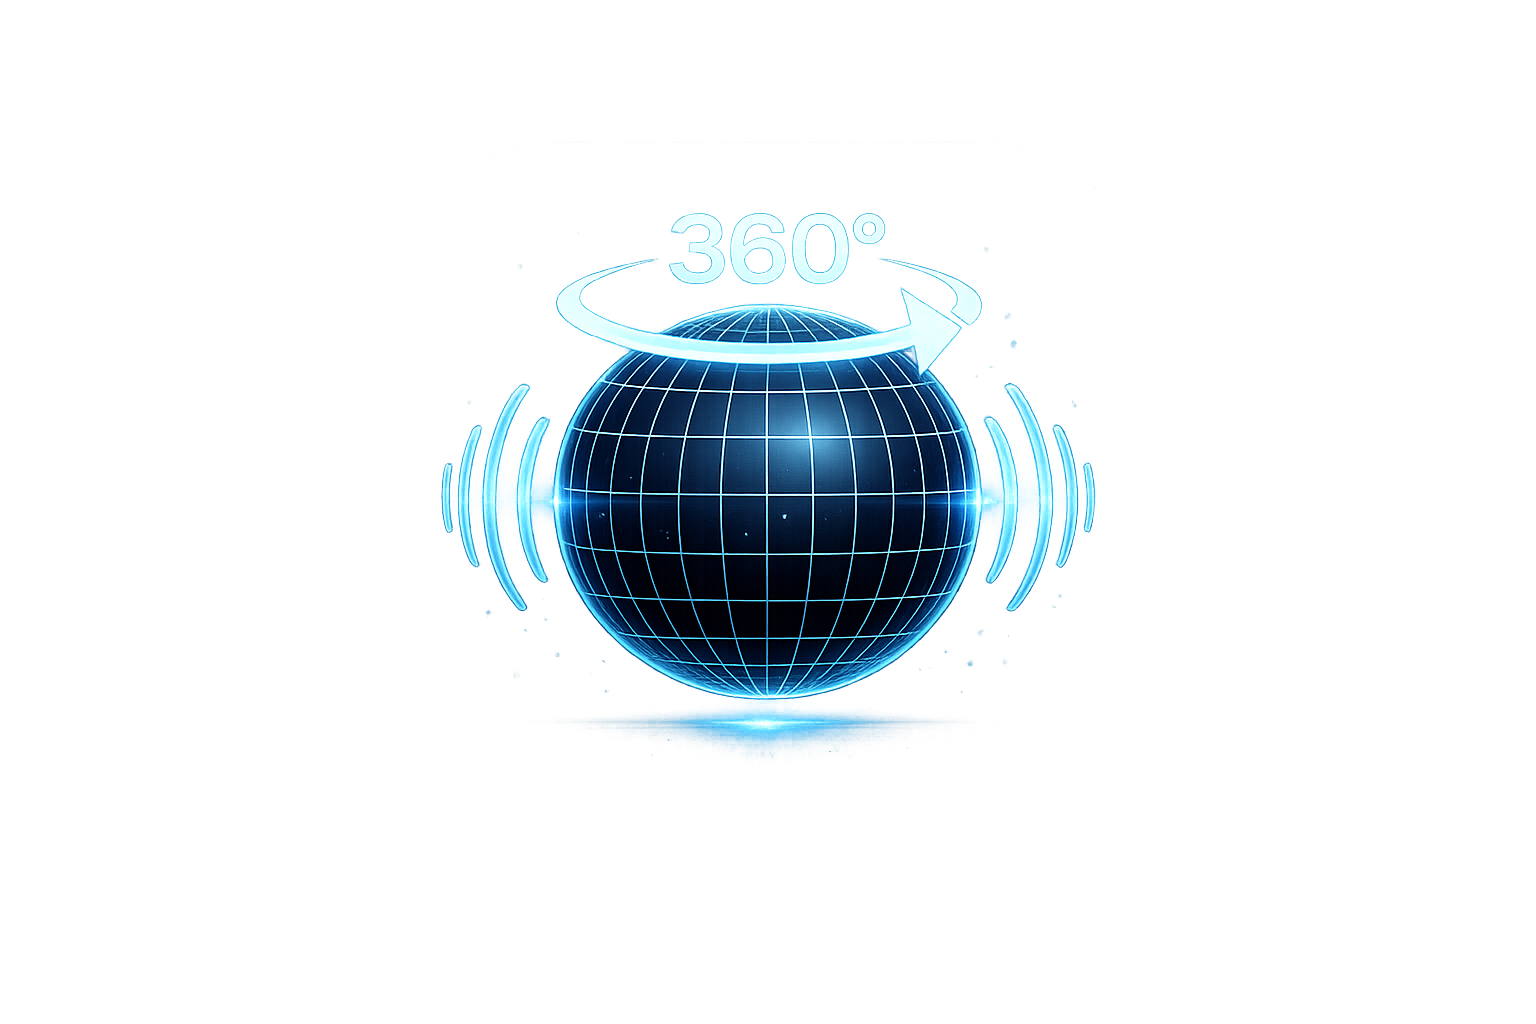
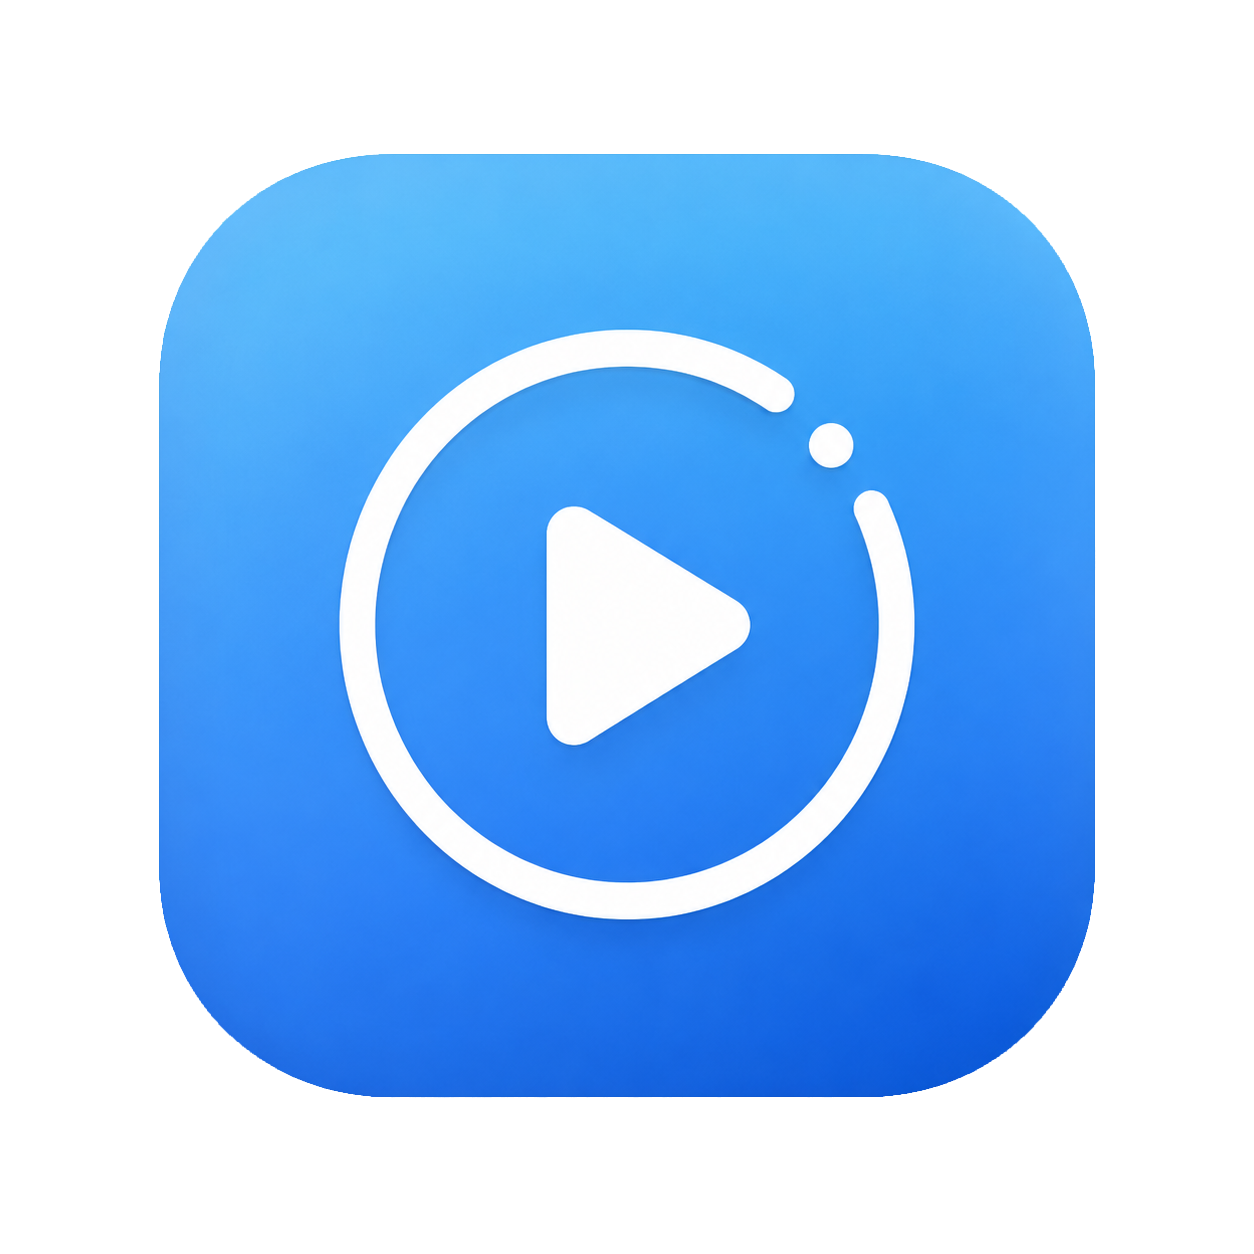
feat: add video thumbnails

diff --git a/Sources/360AudioExporter/Views/VideoThumbnailView.swift b/Sources/360AudioExporter/Views/VideoThumbnailView.swift
@@ -1,0 +1,136 @@
+import AppKit
+import CryptoKit
+import SwiftUI
+
+struct VideoThumbnailView<Placeholder: View>: View {
+    let asset: MediaAsset?
+    let ffmpegPath: String
+    let height: CGFloat
+    let cornerRadius: CGFloat
+    @ViewBuilder let placeholder: () -> Placeholder
+
+    @State private var image: NSImage?
+    @State private var isLoading = false
+
+    var body: some View {
+        ZStack {
+            if let image {
+                Image(nsImage: image)
+                    .resizable()
+                    .scaledToFill()
+                    .frame(maxWidth: .infinity)
+                    .frame(height: height)
+                    .clipped()
+            } else {
+                placeholder()
+                    .frame(maxWidth: .infinity)
+                    .frame(height: height)
+            }
+
+            if isLoading {
+                ProgressView()
+                    .controlSize(.small)
+                    .tint(.white)
+                    .padding(8)
+                    .background(Color.black.opacity(0.55))
+                    .clipShape(Circle())
+            }
+        }
+        .frame(height: height)
+        .clipShape(RoundedRectangle(cornerRadius: cornerRadius))
+        .task(id: asset?.url) {
+            await loadThumbnail()
+        }
+    }
+
+    @MainActor
+    private func loadThumbnail() async {
+        image = nil
+        guard let asset, asset.fileType != .audio else { return }
+
+        isLoading = true
+        defer { isLoading = false }
+
+        let thumbnailURL = await Task.detached(priority: .utility) {
+            ThumbnailGenerator.generate(for: asset, ffmpegPath: ffmpegPath)
+        }.value
+        image = thumbnailURL.flatMap { NSImage(contentsOf: $0) }
+    }
+}
+
+private enum ThumbnailGenerator {
+    static func generate(for asset: MediaAsset, ffmpegPath: String) -> URL? {
+        guard FileManager.default.fileExists(atPath: ffmpegPath) else { return nil }
+
+        let cacheURL = thumbnailCacheURL(for: asset.url)
+        if FileManager.default.fileExists(atPath: cacheURL.path) {
+            return cacheURL
+        }
+
+        let seekTime = thumbnailSeekTime(for: asset)
+        let process = Process()
+        process.executableURL = URL(fileURLWithPath: ffmpegPath)
+        process.arguments = [
+            "-hide_banner",
+            "-loglevel", "error",
+            "-ss", seekTime,
+            "-i", asset.url.path,
+            "-frames:v", "1",
+            "-vf", "scale=640:-1",
+            "-y",
+            cacheURL.path
+        ]
+
+        let pipe = Pipe()
+        process.standardError = pipe
+        process.standardOutput = Pipe()
+
+        do {
+            try process.run()
+            process.waitUntilExit()
+            guard process.terminationStatus == 0 else {
+                let data = pipe.fileHandleForReading.readDataToEndOfFile()
+                let message = String(data: data, encoding: .utf8) ?? "Unknown ffmpeg thumbnail error"
+                Logger.info("Thumbnail generation failed for \(asset.url.path): \(message)")
+                return nil
+            }
+            return cacheURL
+        } catch {
+            Logger.info("Thumbnail generation failed for \(asset.url.path): \(error.localizedDescription)")
+            return nil
+        }
+    }
+
+    private static func thumbnailSeekTime(for asset: MediaAsset) -> String {
+        guard let duration = asset.probe?.duration, duration > 1 else { return "0.1" }
+        return String(format: "%.2f", min(max(duration * 0.1, 0.5), 10.0))
+    }
+
+    private static func thumbnailCacheURL(for url: URL) -> URL {
+        let keySource = "\(url.path)|\(fileModificationStamp(for: url))"
+        let digest = SHA256.hash(data: Data(keySource.utf8))
+            .map { String(format: "%02x", $0) }
+            .joined()
+        return FileManager.default.temporaryDirectory
+            .appendingPathComponent("360AudioExporter-thumbnails", isDirectory: true)
+            .ensuringDirectoryExists()
+            .appendingPathComponent("\(digest).jpg")
+    }
+
+    private static func fileModificationStamp(for url: URL) -> String {
+        guard
+            let attrs = try? FileManager.default.attributesOfItem(atPath: url.path),
+            let date = attrs[.modificationDate] as? Date
+        else {
+            return "unknown"
+        }
+        return "\(date.timeIntervalSince1970)"
+    }
+}
+
+private extension URL {
+    func ensuringDirectoryExists() -> URL {
+        try? FileManager.default.createDirectory(at: self, withIntermediateDirectories: true)
+        return self
+    }
+}

diff --git a/Sources/360AudioExporter/Views/OutputPreviewCardView.swift b/Sources/360AudioExporter/Views/OutputPreviewCardView.swift
@@ -10,61 +10,16 @@ struct OutputPreviewCardView: View {
                 .fontWeight(.semibold)
                 .foregroundColor(.white)
             
-            // Sphere wireframe drawing
             ZStack {
-                RoundedRectangle(cornerRadius: 8)
-                    .fill(Color.black.opacity(0.4))
-                    .frame(height: 160)
-                
-                // Globe Wireframe drawing
-                Canvas { context, size in
-                    let w = size.width
-                    let h = size.height
-                    let cx = w / 2
-                    let cy = h / 2
-                    let r = min(w, h) * 0.4
-                    
-                    // Base Circle
-                    context.stroke(
-                        Path(ellipseIn: CGRect(x: cx - r, y: cy - r, width: r * 2, height: r * 2)),
-                        with: .color(.gray.opacity(0.35)),
-                        lineWidth: 1
-                    )
-                    
-                    // Vertical Ellipses (meridians)
-                    for factor in [0.25, 0.5, 0.75] {
-                        let ew = r * 2 * factor
-                        context.stroke(
-                            Path(ellipseIn: CGRect(x: cx - ew / 2, y: cy - r, width: ew, height: r * 2)),
-                            with: .color(.gray.opacity(0.25)),
-                            lineWidth: 1
-                        )
-                    }
-                    
-                    // Horizontal Ellipses (parallels)
-                    for factor in [0.25, 0.5, 0.75] {
-                        let eh = r * 2 * factor
-                        context.stroke(
-                            Path(ellipseIn: CGRect(x: cx - r, y: cy - eh / 2, width: r * 2, height: eh)),
-                            with: .color(.gray.opacity(0.25)),
-                            lineWidth: 1
-                        )
-                    }
-                    
-                    // Center lines
-                    var horizontalLine = Path()
-                    horizontalLine.move(to: CGPoint(x: cx - r, y: cy))
-                    horizontalLine.addLine(to: CGPoint(x: cx + r, y: cy))
-                    context.stroke(horizontalLine, with: .color(.gray.opacity(0.35)), lineWidth: 1)
-                    
-                    var verticalLine = Path()
-                    verticalLine.move(to: CGPoint(x: cx, y: cy - r))
-                    verticalLine.addLine(to: CGPoint(x: cx, y: cy + r))
-                    context.stroke(verticalLine, with: .color(.gray.opacity(0.35)), lineWidth: 1)
+                VideoThumbnailView(
+                    asset: previewAsset,
+                    ffmpegPath: appState.ffmpegPath,
+                    height: 160,
+                    cornerRadius: 8
+                ) {
+                    SpherePlaceholderView()
                 }
-                .frame(height: 160)
                 
-                // Play Icon overlay
                 Image(systemName: "play.fill")
                     .font(.title)
                     .foregroundColor(.white)
@@ -99,5 +54,65 @@ struct OutputPreviewCardView: View {
         let settings = appState.exportSettings
         let resolution = settings.effectiveResolution.map { "\($0.width) x \($0.height)" } ?? "původní rozlišení"
         return "\(settings.outputFormat.label), \(resolution), \(settings.effectiveVideoBitrate), \(settings.audioMode.label)."
+    }
+
+    private var previewAsset: MediaAsset? {
+        switch appState.selectedMode {
+        case .export360Video:
+            return appState.inputVideo
+        case .attachSpatialAudio:
+            return appState.renderedVideo
+        }
+    }
+}
+
+private struct SpherePlaceholderView: View {
+    var body: some View {
+        ZStack {
+            RoundedRectangle(cornerRadius: 8)
+                .fill(Color.black.opacity(0.4))
+
+            Canvas { context, size in
+                let w = size.width
+                let h = size.height
+                let cx = w / 2
+                let cy = h / 2
+                let r = min(w, h) * 0.4
+
+                context.stroke(
+                    Path(ellipseIn: CGRect(x: cx - r, y: cy - r, width: r * 2, height: r * 2)),
+                    with: .color(.gray.opacity(0.35)),
+                    lineWidth: 1
+                )
+
+                for factor in [0.25, 0.5, 0.75] {
+                    let ew = r * 2 * factor
+                    context.stroke(
+                        Path(ellipseIn: CGRect(x: cx - ew / 2, y: cy - r, width: ew, height: r * 2)),
+                        with: .color(.gray.opacity(0.25)),
+                        lineWidth: 1
+                    )
+                }
+
+                for factor in [0.25, 0.5, 0.75] {
+                    let eh = r * 2 * factor
+                    context.stroke(
+                        Path(ellipseIn: CGRect(x: cx - r, y: cy - eh / 2, width: r * 2, height: eh)),
+                        with: .color(.gray.opacity(0.25)),
+                        lineWidth: 1
+                    )
+                }
+
+                var horizontalLine = Path()
+                horizontalLine.move(to: CGPoint(x: cx - r, y: cy))
+                horizontalLine.addLine(to: CGPoint(x: cx + r, y: cy))
+                context.stroke(horizontalLine, with: .color(.gray.opacity(0.35)), lineWidth: 1)
+
+                var verticalLine = Path()
+                verticalLine.move(to: CGPoint(x: cx, y: cy - r))
+                verticalLine.addLine(to: CGPoint(x: cx, y: cy + r))
+                context.stroke(verticalLine, with: .color(.gray.opacity(0.35)), lineWidth: 1)
+            }
+        }
     }
 }

diff --git a/Sources/360AudioExporter/Views/MediaInfoCardView.swift b/Sources/360AudioExporter/Views/MediaInfoCardView.swift
@@ -11,24 +11,30 @@ struct MediaInfoCardView: View {
         HStack(alignment: .top, spacing: 16) {
             // Thumbnail / Icon representation
             ZStack(alignment: .topTrailing) {
-                // Background representation
-                RoundedRectangle(cornerRadius: 8)
-                    .fill(LinearGradient(
-                        colors: [Color.blue.opacity(0.2), Color.purple.opacity(0.2)],
-                        startPoint: .topLeading,
-                        endPoint: .bottomTrailing
-                    ))
-                    .frame(width: 140, height: 95)
-                    .overlay(
-                        VStack(spacing: 4) {
-                            Image(systemName: asset.fileType == .audio ? "waveform" : "video")
-                                .font(.title)
-                                .foregroundColor(.white.opacity(0.8))
-                            Text(asset.fileType.rawValue)
-                                .font(.caption2)
-                                .foregroundColor(.white.opacity(0.6))
-                        }
-                    )
+                VideoThumbnailView(
+                    asset: asset,
+                    ffmpegPath: appState.ffmpegPath,
+                    height: 95,
+                    cornerRadius: 8
+                ) {
+                    RoundedRectangle(cornerRadius: 8)
+                        .fill(LinearGradient(
+                            colors: [Color.blue.opacity(0.2), Color.purple.opacity(0.2)],
+                            startPoint: .topLeading,
+                            endPoint: .bottomTrailing
+                        ))
+                        .overlay(
+                            VStack(spacing: 4) {
+                                Image(systemName: asset.fileType == .audio ? "waveform" : "video")
+                                    .font(.title)
+                                    .foregroundColor(.white.opacity(0.8))
+                                Text(asset.fileType.rawValue)
+                                    .font(.caption2)
+                                    .foregroundColor(.white.opacity(0.6))
+                            }
+                        )
+                }
+                .frame(width: 140)
                 
                 // 360 Badge
                 if asset.fileType == .video360 {